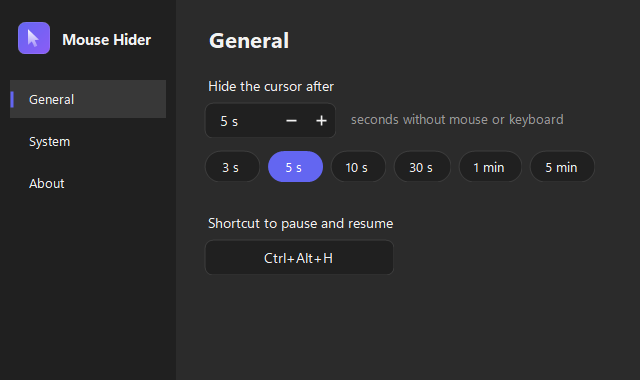
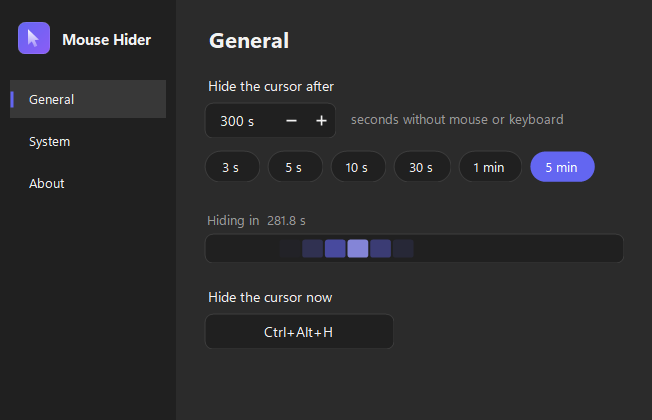
Atualiza README e screenshot para a 1.0.2
O atalho global virou "esconder na hora" e pausar ficou so na bandeja; o
screenshot antigo ainda mostrava "Shortcut to pause and resume" e nao tinha o
contador. Tambem: 11 idiomas em vez de tres, timer de 50 ms, e uma nota sobre
a verificacao de atualizacao comparar com a tag do release, nao com o csproj.

diff --git a/README.md b/README.md
@@ -12,10 +12,11 @@ e o traz de volta no primeiro movimento. Sem conta, sem nuvem, sem telemetria.
 
 - Tempo de inatividade configurável, de 1 segundo a 1 hora
 - Contador regressivo ao vivo, que reinicia a cada movimento do mouse
-- Atalho global para pausar e retomar, com a combinação que você escolher
+- Atalho global para esconder o cursor na hora, com a combinação que você escolher
+- Pausar e retomar pelo menu da bandeja, que espelha as abas da janela
 - Verificação de novas versões direto da tela Sistema
 - Inicia com o Windows, se você quiser (grava só no seu usuário, sem admin)
-- Português, inglês e espanhol, ou segue o idioma do Windows
+- 11 idiomas, ou segue o idioma do Windows
 - Claro ou escuro, seguindo o tema do sistema
 
 ## O cursor sempre volta
@@ -50,14 +51,20 @@ sistema. Isso é comportamento do Windows, não falha do app.
 | Arquivo | Responsabilidade |
 |---|---|
 | [`CursorHider.cs`](MouseHider/CursorHider.cs) | Troca os cursores do sistema por um transparente (`CreateCursor` + `SetSystemCursor`) e restaura com `SystemParametersInfo(SPI_SETCURSORS)` |
-| [`Program.cs`](MouseHider/Program.cs) | Mutex de instância única, timer de 500 ms com `GetLastInputInfo`, bandeja, atalho global |
+| [`Program.cs`](MouseHider/Program.cs) | Mutex de instância única, timer de 50 ms com `GetLastInputInfo`, bandeja, atalho global |
 | [`Config.cs`](MouseHider/Config.cs) | `%AppData%\MouseHider\config.json`, autostart em `HKCU\...\Run`, log com rotação |
 | [`Logo.cs`](MouseHider/Logo.cs) | O logo desenhado por código e o gerador do `.ico` multi-resolução |
-| [`Theme.cs`](MouseHider/Theme.cs), [`Controles.cs`](MouseHider/Controles.cs) | Paleta clara/escura e os controles próprios (toggle, campo numérico, chips, captura de atalho) |
-| [`Idiomas.cs`](MouseHider/Idiomas.cs) | Tabela de textos pt/en/es |
+| [`Theme.cs`](MouseHider/Theme.cs), [`Controles.cs`](MouseHider/Controles.cs) | Paleta clara/escura e os controles próprios (toggle, campo numérico, chips, captura de atalho, dropdown, contador KITT, roda de carregamento) |
+| [`Idiomas.cs`](MouseHider/Idiomas.cs) | Tabela de textos em 11 idiomas |
 
 Detecção de inatividade é por `GetLastInputInfo` com polling, não por hook global de mouse:
-mais leve e sem o falso-positivo de keylogger em antivírus.
+mais leve e sem o falso-positivo de keylogger em antivírus. O intervalo do timer é a
+latência com que o cursor volta ao primeiro movimento — daí os 50 ms.
+
+Os controles da janela são desenhados à mão em vez de usar os do WinForms, que não aceitam
+tema: o `NumericUpDown` mantém as setinhas claras no modo escuro e o `ComboBox` mantém a
+borda e a seta do sistema. A lista aberta do dropdown de idiomas é um `ContextMenuStrip`
+com o mesmo renderer temático do menu da bandeja.
 
 ## Compilar
 
@@ -81,11 +88,16 @@ dotnet run --project MouseHider\MouseHider.csproj -- --makeicon
 ## Publicar uma versão
 
 ```powershell
-.\scripts\release.ps1 1.0.1
+.\scripts\release.ps1 1.0.2
 ```
 
 Publica o exe, compila o instalador, commita, cria a tag e sobe o release. O asset sai
 sempre com o nome `MouseHiderSetup.exe`, então o link de download acima nunca muda.
+
+A versão fica só no `MouseHider.csproj`, e o script grava ela lá — a tela Sobre e o
+instalador leem daí. A verificação de atualização compara com a tag do release mais
+recente no GitHub, então versão nova só aparece para quem já instalou depois que o
+release existe.
 
 ## Apoiar
 
